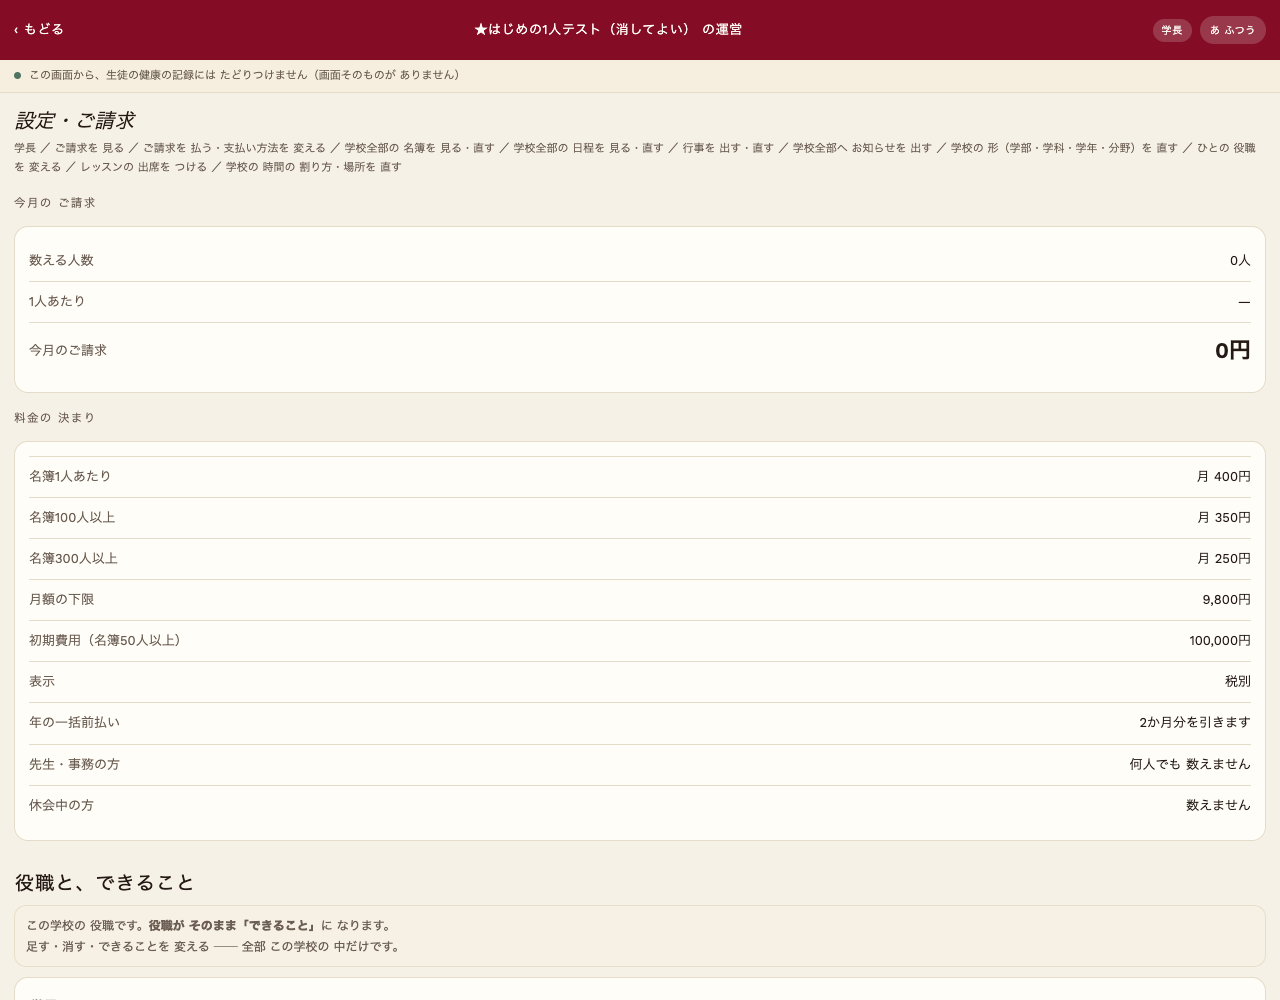
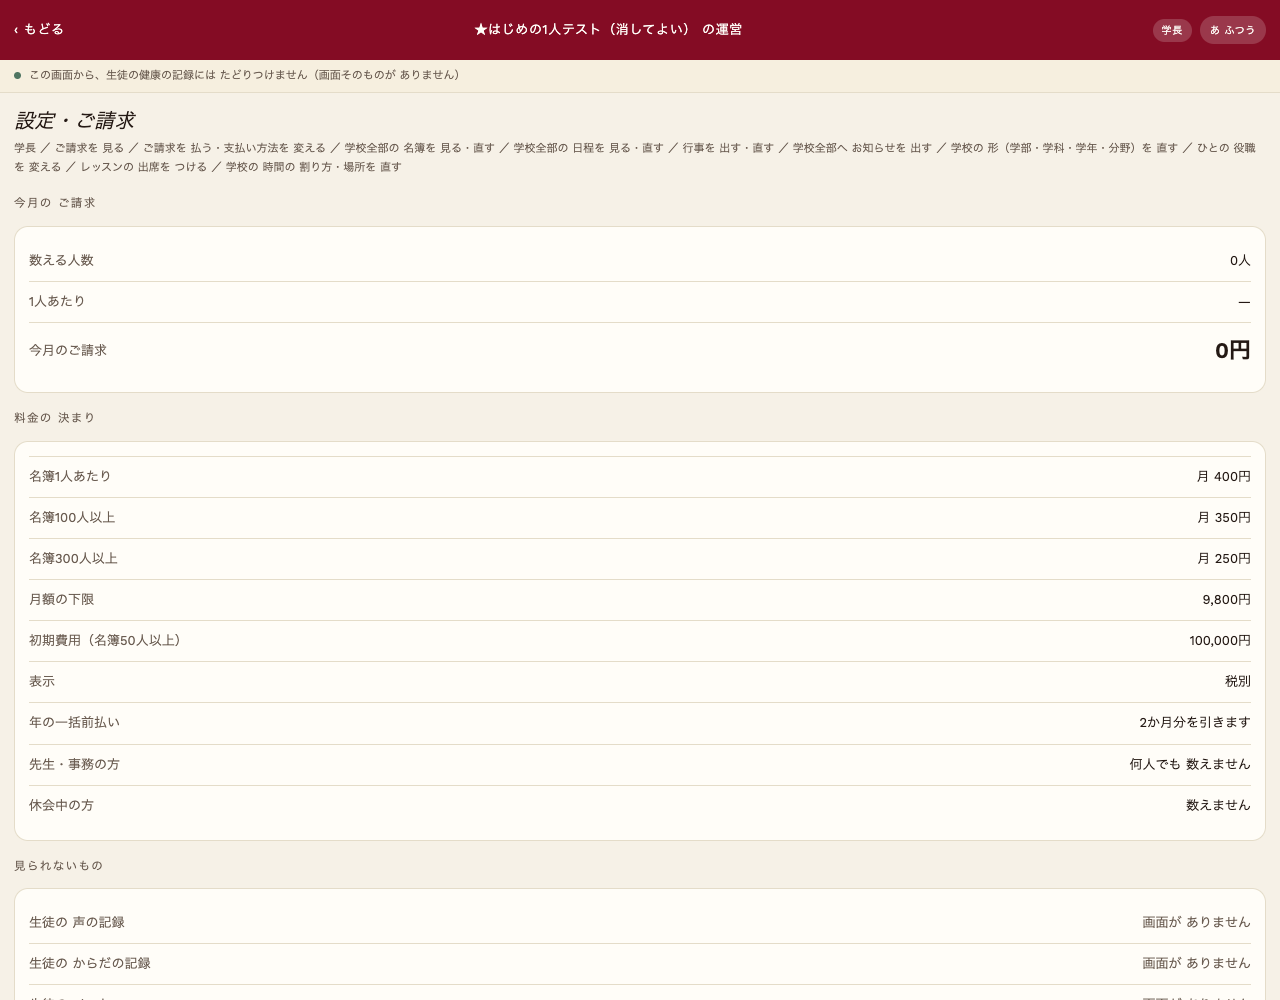
お支払いの箱の構造と配線を調べました ── 台帳に1行もありません
見本 stBill() の5行・札3つ・行き先1つを、台帳に直に尋ねました。

★5行とも出どころがありません。
 organizations の列は5つだけ（id/name/kind/created_by/created_at）。
 お金の列は1つもありません。

★お金の表を3つ見ました:
 payment_records … 16列・★0行。user_id も org_id もなく、結べません
 subscriptions … 12列・48行（none 46 / active 2）。★個人のものです
 purchases … 12列・★0行
 ★学校のお支払いの記録は、台帳に1行もありません。
 いまのご請求は名簿からその場で数えています。払った・払っていない、
 誰の名義で、いつ引き落とすか ── どれもどこにも置いていません。

★札3つと行き先1つも、押した先がありません。
 いま置くと4つとも押せない札になります（§8⑤）。

見立て: この箱は画面の仕事ではなく、先に台帳の仕事です。
 ㋐ 置き場（organizations に列 or org_billing の表）
 ㋑ 宛先は1人だけ・引き継ぎに両方の承諾 → 承諾を置くところも要る
 ㋒ 支払い方法（いまの Stripe は個人のぶん）
 ㋓ 領収書（人数と金額だけ、は見本の注をそのまま使えます）
 ★お勧め: ㋐を先に1つだけ。決まれば5行のうち4行はその日に出せます。

★数え直し（⑨差し戻し後）: 小見出し 4/3・箱 6/5・行 27/17
 残るのは「お支払い」1節と札3つです。

Claude-Session: https://claude.ai/code/session_01P6Lfc5LxjSbHgGaQUCbdAr

Changed region(s): [[0.0, 0.868, 0.3125, 0.992], [0.875, 0.961, 1.0, 1.0], [0.875, 0.899, 0.9688, 0.93]]

diff --git a/docs/reports/2026-09-18-お支払いの箱-構造と配線.md b/docs/reports/2026-09-18-お支払いの箱-構造と配線.md
@@ -1,0 +1,79 @@
+# ★お支払いの 箱 ── ★構造と 配線（★数える 前に）
+
+全79行 / 末尾は「## 五 ★まだ 何も 直して いません」
+
+★見本 `stBill()` の 下半分に ある もの ── ★5行 ＋ 札3つ ＋ 行き先1つ。
+★★どこから 数を 取るのかを、★台帳に 直に 尋ねました。
+
+## 一 ★5行 ── ★出どころ
+
+| 見本の 行 | 見本の 値 | 台帳の 出どころ | ある か |
+|---|---|---|---|
+| ご請求の 宛先（名義） | 坂本 響（学長） | ── | ★★ありません |
+| 支払い方法 | クレジットカード | ── | ★★ありません |
+| お支払いの まとまり | 毎月 | ── | ★★ありません |
+| 引き落とし日 | 毎月 25日 | ── | ★★ありません |
+| 次の お支払い | 9月25日　67,900円 | ── | ★★ありません |
+
+★★`organizations` の 列は **5つ だけ** です ──
+　`id` ／ `name` ／ `kind` ／ `created_by` ／ `created_at`。
+★★お金の 列は 1つも ありません。
+
+## 二 ★お金の 表を 3つ 見ました
+
+```
+payment_records  … 16列・★0行
+                   ★user_id も org_id も ありません。
+                   ★どの 口の ものか、★どの 学校の ものか、★結べません。
+subscriptions    … 12列・48行（★none 46 ／ active 2）
+                   ★user_id で 結びます ── ★**個人**の もの です。
+                   ★学校の ご請求は、★ここに 入って いません。
+purchases        … 12列・★0行
+```
+
+★★★つまり ── ★学校の お支払いの 記録は、★台帳に **1行も ありません**。
+　★★いまの ご請求（194人 × 350円 …）は、★名簿から **その場で 数えて** います。
+　★★払った・払って いない、★誰の 名義で、★いつ 引き落とすか ──
+　　★★どれも どこにも 置いて いません。
+
+## 三 ★札3つ と 行き先1つ
+
+| 見本の 札 | 押した 先 | ある か |
+|---|---|---|
+| 支払い方法を 変える › | 支払い方法の 画面 | ★★ありません（★台帳㊻） |
+| 宛先を 変える › | 宛先の 画面 | ★★ありません |
+| 領収書を 出す › | 領収書の 画面 | ★★ありません |
+| くわしい 決まりを 見る › | 決まりの 画面 | ★★ありません |
+
+★★4つ とも、★押した 先が ありません。
+　★★いま 置くと、★4つ とも **押せない 札** に なります（★§8⑤）。
+
+## 四 ★私の 見立て
+
+★★この 箱は、★**画面の 仕事では ありません**。★先に 台帳の 仕事 です。
+
+```
+★要る 決め（★坂本さん・Opus）
+  ㋐ 学校の お支払いを、★どこに 置くか
+     ★★`organizations` に 列を 足す か
+     ★★`org_billing` の ような 表を 1つ 作る か
+  ㋑ 宛先（名義）は 1人 だけ、と 見本に あります
+     ★★「引き継ぎには 両方の 承諾が 要ります」とも 書いて あります
+     ★★★承諾の やりとりを 置く ところ も 要ります
+  ㋒ 支払い方法 ── ★Stripe に 寄せるか、★口座振替も 置くか
+     ★★いまの Stripe は **個人**の ぶん です（★subscriptions・48行）
+     ★★学校の ぶんを 同じ 道に 通すか、★別に するか
+  ㋓ 領収書 ── ★誰の 名前で、★何を 書くか
+     ★★見本の 注に「生徒の 名前も 健康の 記録も 出ません。人数と 金額だけ」
+       ★★と あります。★それは そのまま 使えます
+```
+
+★★★お勧め ── ★㋐ を 先に、★1つ だけ 決めて いただく。
+　★★置き場が 決まれば、★5行の うち 4行は その日の うちに 出せます。
+　★★「次の お支払い」だけは、★㋒（★支払い方法）が 決まって から です。
+
+★★★いま 画面を 作る のは、★お勧めしません。
+　★★数の 無い 行を 5つ 並べる ことに なります。
+　★★学校に お出しする 画面 です。★空の 行が 並ぶと、★信用を 落とします。
+
+## 五 ★まだ 何も 直して いません

diff --git a/docs/reports/2026-09-18-設定-ご請求-数え直し.md b/docs/reports/2026-09-18-設定-ご請求-数え直し.md
@@ -10,10 +10,10 @@
 
 | 測るもの | 見本 | 実装 | ちがい |
 |---|---:|---:|---|
-| 高さ（px） | 1478 | 2326 | 実装が +848 |
-| 箱の数 | 6 | 4 | 実装が -2 |
-| 行の数 | 27 | 13 | 実装が -14 |
-| 小見出しの数 | 4 | 2 | 実装が -2 |
+| 高さ（px） | 1478 | 2566 | 実装が +1088 |
+| 箱の数 | 6 | 5 | 実装が -1 |
+| 行の数 | 27 | 17 | 実装が -10 |
+| 小見出しの数 | 4 | 3 | 実装が -1 |
 | 押せるものの数 | 3 | 13 | 実装が +10 |
 
 ★見本は、★器の 中で 600 px 巻いて いました（★見える 796 ／ ぜんぶ 1396）。
@@ -23,8 +23,7 @@
 
 ### 小見出し
 
-★見本に あって 実装に 無い ── 2
-　・見られないもの
+★見本に あって 実装に 無い ── 1
 　・お支払い
 
 ★実装に あって 見本に 無い ── 0
